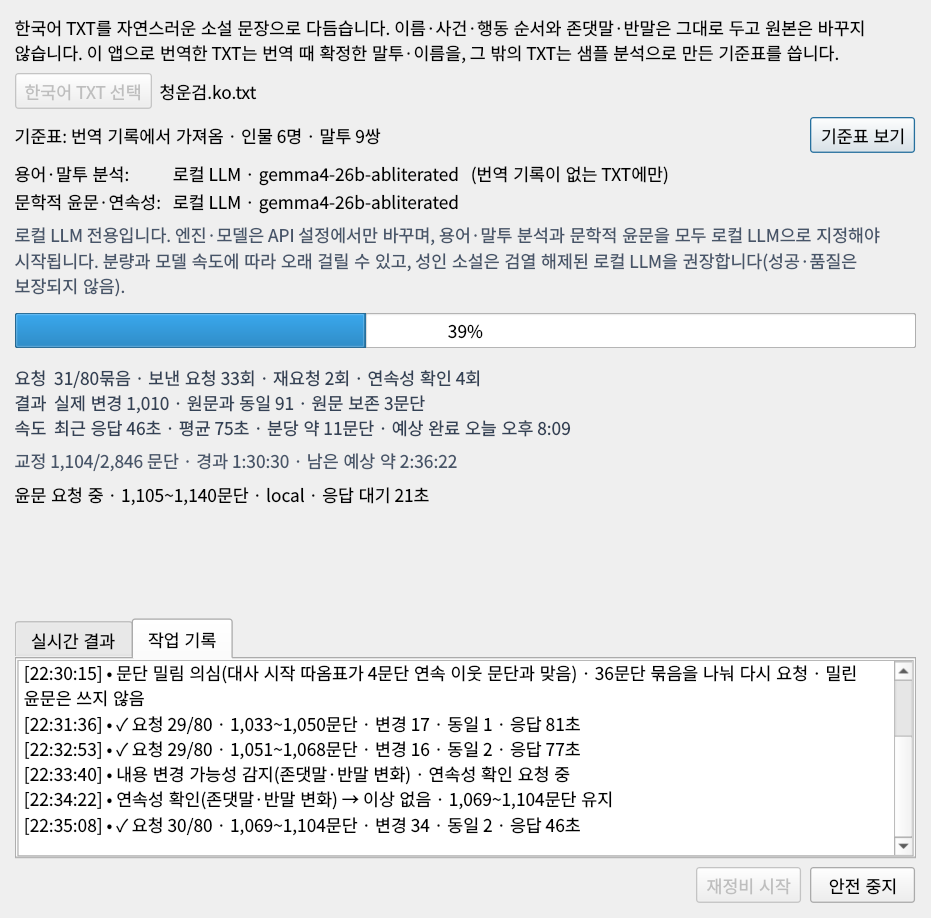
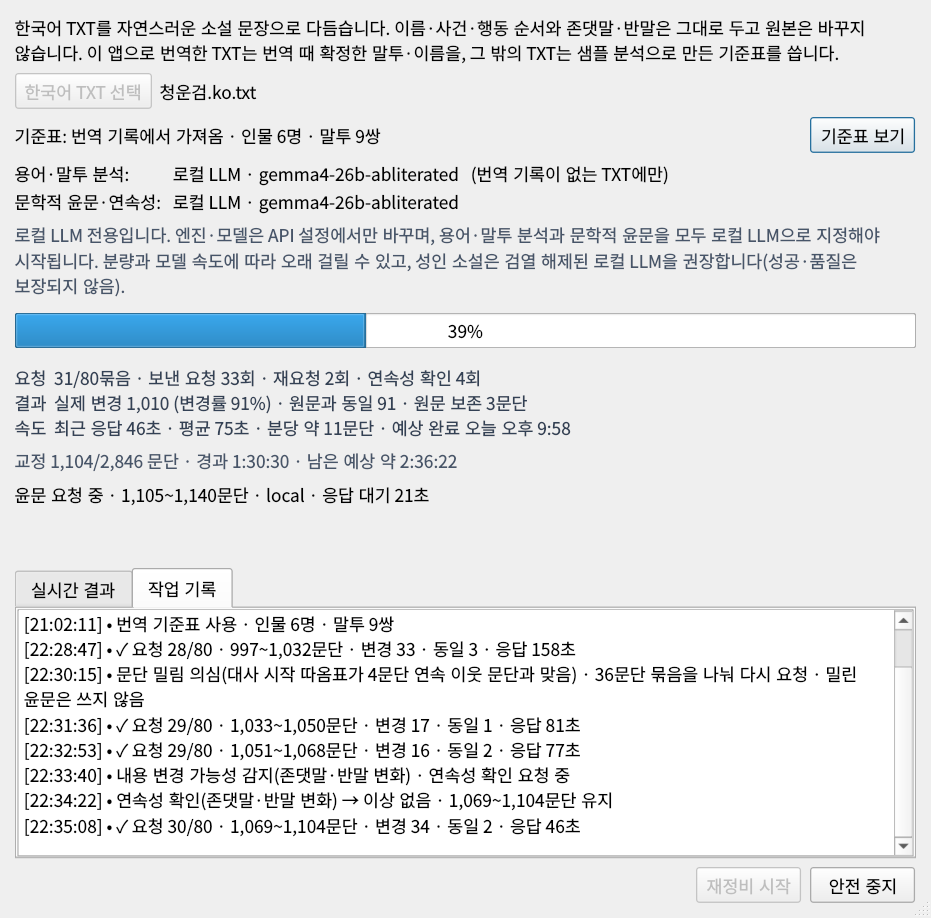
v2.6.2 보완 — 재정비 변경 수를 결과 기준으로 · 마침표·쉼표만 바꾼 다듬기는 원문 유지 · (변경 없음) 한 줄 · 변경률 · 창 빈 자리 축소 · 크기 조절 표시
Claude-Session: https://claude.ai/code/session_01Jd1F2aNuEFXjL3F7FpUsYa

Changed region(s): [[0.0, 0.61, 0.9968, 0.915], [0.1869, 0.427, 0.5607, 0.4575], [0.5918, 0.4575, 0.623, 0.488]]

diff --git a/app/docs/사용설명서.html b/app/docs/사용설명서.html
@@ -168,7 +168,8 @@
   <li><b>진행 정보 보강</b> — 진행바 아래에 세 줄이 늘었습니다: <b>요청</b>(몇 번째 묶음 · 보낸 요청 · 재요청 · 연속성 확인 횟수), <b>결과</b>(실제 변경 · 원문과 동일 · 원문 보존 문단), <b>속도</b>(최근 · 평균 응답 시간 · 분당 문단 수 · <b>예상 완료 시각</b>).</li>
   <li><b>[실시간 결과] · [작업 기록] 탭</b> — <b>실시간 결과</b>에는 다듬은 문장이 묶음마다 바로 쌓이고, <b>다듬기 전 문장도 함께 보기</b>를 켜면 문단마다 전 · 후를 비교할 수 있습니다. <b>작업 기록</b>에는 묶음마다 결과(변경 · 동일 · 응답 시간)와 재요청 · 문단 밀림 · 연속성 확인 · 원문 보존이 시간과 함께 남습니다. 두 탭 모두 번역 화면의 작업 기록처럼 <b>최근 500개</b>만 보여 며칠을 돌려도 느려지지 않습니다.</li>
   <li><b>전체 작업 기록 파일</b> — 화면에서 밀려난 기록도 결과 파일 옆 <code>….refined.txt.log.txt</code>에 모두 남습니다(30MB 소설도 약 1MB). 이어서 하면 같은 파일에 이어 쓰고, 처음부터 새로 하면 이전 기록은 <code>.log.이전.txt</code>로 하나 남깁니다.</li>
-  <li><b>재정비 창 크기 조절 · 위치 기억</b> — 창을 원하는 크기로 키울 수 있고, 번역 화면처럼 다음에 열 때 위치와 크기를 기억합니다. 진행 중에는 지금처럼 창 크기가 저절로 바뀌지 않습니다.</li>
+  <li><b>재정비 창 크기 조절 · 위치 기억</b> — 창을 원하는 크기로 키울 수 있고(오른쪽 아래 모서리의 크기 조절 표시), 번역 화면처럼 다음에 열 때 위치와 크기를 기억합니다. 진행 중에는 지금처럼 창 크기가 저절로 바뀌지 않습니다.</li>
+  <li><b>정확한 변경 수 (같은 버전 보완)</b> — 따옴표 모양 · 문단 끝 빈칸만 다른 문단은 "변경"으로 세지 않고, 비교 보기에서 <code>[번호] (변경 없음) …</code> 한 줄로 보여 줍니다. <b>마침표 · 쉼표만 바꾼 다듬기</b>("후후후." → "후후후,")는 나아진 것이 아니므로 원문을 그대로 씁니다(물음표 · 느낌표를 더한 것은 변경으로 인정). 결과 줄에 <b>변경률</b>이 나오고, 150문단 넘게 다듬었는데 변경률이 50% 미만이면 작업 기록에 경고가 남습니다. 완료 요약의 수는 결과 줄에 한 번만 나와 창의 빈 자리가 줄었습니다.</li>
 </ul></div>
 <div class="box info"><b>v2.6.1에서 달라진 점 — 기능 사이 흐름 점검으로 찾은 보완</b>
 <p>번역 · 재정비 · 출력 폴더가 <b>서로 만나는 지점</b>을 처음부터 끝까지 따라가며 점검해, 따로 쓸 때는 문제가 없지만 함께 쓸 때 결과를 잃거나 작업이 엉킬 수 있는 곳을 찾아 고쳤습니다. 새 기능이나 새 버튼은 없고, 번역 · 재정비 지침과 속도 · 품질은 그대로입니다. 결과 파일을 다루는 방식(덮어쓰기 보호)과 재정비 이어서 하기의 기준이 바뀌는 보완이라 같은 버전 재배포 대신 v2.6.1로 올렸습니다.</p>

diff --git a/app/tests/test_v262_refinement_counts.py b/app/tests/test_v262_refinement_counts.py
@@ -1,0 +1,157 @@
+"""v2.6.2 보완 (same-version redeploy): honest counts and a quieter comparison.
+
+- A paragraph is "changed" only when the result file differs: quotation-mark shape,
+  Chinese/Japanese punctuation and the spaces at either end no longer count as an edit,
+  and the spaces at the end of a line stay as in the original.
+- The live comparison shows an unchanged paragraph on one line, "(변경 없음)".
+- The run log warns once when the model leaves most paragraphs as they were.
+- The finished window says the counts once (결과 line), keeps its size, shows the resize mark.
+- The editing instruction is the v2.6.2 one, unchanged (a stronger one tried on 2026-11-04
+  edited more but also dropped dialogue and changed meaning, so it was not kept).
+"""
+from __future__ import annotations
+
+import re
+
+import pytest
+
+from novel_translator.chunking import split_paragraphs
+from novel_translator.refinement_runtime import (run_refinement, refinement_prompt, same_result,
+                                                   finalize_body)
+from novel_translator.providers.base import TranslationResponse, ProviderError, ErrorKind
+from test_refinement_reference_and_safety import Editor, write, REVIEW
+from test_alpha17 import qt_app, sandbox  # noqa: F401 (fixtures)
+
+LONG = '그는 그녀의 그 말에 대해 아무런 대답도 하지 않은 채 창밖을 바라보는 것이었다.'
+
+
+# ---------------------------------------------------------------- what counts as a change
+@pytest.mark.parametrize('orig,body,same', [
+    ('"히익!" 부인의 입에서 날카로운 비명이 터져 나왔다.', '“히익!” 부인의 입에서 날카로운 비명이 터져 나왔다.', True),
+    ('"히익!" 부인의 입에서 비명이 터져 나왔다.', '"히익!" 부인의 입에서 비명이 터져 나왔다. ', True),
+    ('그는 웃었다. ', '그는 웃었다.', True),
+    ('　그는 웃었다.', '그는 웃었다.', True),
+    ('"왜?" 그가 물었다.', '“왜？” 그가 물었다。', True),
+    ('"서너 번은은 하게 만들 테니까."', '"서너 번은 하게 만들 테니까."', False),
+    ('그는 웃었다.', '그는 빙긋 웃었다.', False),
+    ('"어디 가." 그녀가 물었다.', '"어디 가?" 그녀가 물었다.', False),
+])
+def test_same_result(orig, body, same):
+    assert same_result(orig, body) is same
+
+
+def test_end_of_line_spaces_follow_the_original():
+    assert finalize_body('그는 웃었다.  ', '그는 웃었다.', True, 'straight') == '그는 웃었다.  '
+    assert finalize_body('그는 웃었다.', '그는 웃었다.   ', True, 'straight') == '그는 웃었다.'
+    assert finalize_body('　그는 웃었다.', '  그는 웃었다. ', None, 'straight') == '　그는 웃었다.'
+
+
+def test_quote_only_edits_are_not_counted_as_changes(tmp_path):
+    book = '\n'.join(f'"짧은 대사 {i}."' for i in range(10))
+    src = write(tmp_path, 'q.ko.txt', book)
+    curl = lambda pid, t: re.sub(r'"([^"]*)"', r'“\1”', t)
+    stats, lines = [], []
+    out = tmp_path / 'q.r.txt'
+    r = run_refinement(src, out, Editor(curl), 'm', '', checkpoint_dir=tmp_path / 'cp', links_root=tmp_path / 'l',
+                       punct=True, on_stats=stats.append, on_log=lines.append, log_path=tmp_path / 'q.log.txt')
+    assert r['changed'] == 0 and r['identical'] == 10
+    assert stats[-1]['changed'] == 0 and stats[-1]['identical'] == 10
+    assert any('변경 0 · 동일 10' in l for l in lines)
+    assert '실제 변경 0문단 · 원문과 동일 10문단' in (tmp_path / 'q.r.txt.review.txt').read_text(encoding='utf-8-sig')
+
+
+# ---------------------------------------------------------------- the instruction
+# ---------------------------------------------------------------- 집중 윤문
+class Lazy(Editor):
+    """Copies every paragraph back on the first ask; edits on the 집중 윤문 ask."""
+    def __init__(self, second=lambda pid, t: t.replace('바라보는 것이었다', '바라보았다').replace('그녀의 그 말에 대해', '그 말에')):
+        super().__init__(lambda pid, t: t)
+        self.second = second; self.prompts = []
+    def translate(self, req, key):
+        if req.purpose == 'edit':
+            self.prompts.append(req.user_prompt)
+        if req.purpose == 'edit' and '그대로 돌아왔습니다' in req.user_prompt:
+            self.calls.append('focus')
+            hits = re.findall(r'(?m)^<P(\d{6})>\n([^\n]*)', req.user_prompt.split('교정 대상:')[1])
+            return TranslationResponse('\n\n'.join(f'<P{pid}>\n{self.second(int(pid), t)}' for pid, t in hits))
+        return super().translate(req, key)
+
+
+# ---------------------------------------------------------------- low change rate
+def test_low_change_rate_is_warned_once(tmp_path):
+    lines_in = [f'{i}번째 문단에서 그는 아무 말도 하지 않고 창밖을 바라보았다.' for i in range(200)]
+    src = write(tmp_path, 'w.ko.txt', '\n'.join(lines_in))
+    ed = Lazy(second=lambda pid, t: t)                       # copies everything, even on 집중 윤문
+    lines = []
+    run_refinement(src, tmp_path / 'w.r.txt', ed, 'm', '', checkpoint_dir=tmp_path / 'cp', links_root=tmp_path / 'l',
+                   on_log=lines.append, log_path=tmp_path / 'w.log.txt')
+    warns = [l for l in lines if l.startswith('⚠ 변경률 낮음')]
+    assert len(warns) == 1 and '0%만 문장이 바뀜' in warns[0]
+    assert '⚠ 변경률 낮음' in (tmp_path / 'w.log.txt').read_text(encoding='utf-8-sig')
+    lines2 = []
+    run_refinement(src, tmp_path / 'w2.r.txt', Editor(lambda pid, t: t.replace('바라보았다', '내다보았다')), 'm', '',
+                   checkpoint_dir=tmp_path / 'cp2', links_root=tmp_path / 'l2', on_log=lines2.append)
+    assert not any(l.startswith('⚠') for l in lines2)
+
+
+# ---------------------------------------------------------------- window
+def test_unchanged_paragraph_is_one_line_in_the_comparison(qt_app, sandbox, monkeypatch):
+    import novel_translator.ui.refinement_run_dialog as rd
+    from test_v262_refinement_output import _host
+    root, cfg = sandbox
+    monkeypatch.setattr(rd, 'CONFIG_DIR', cfg)
+    d = rd.RefinementRunDialog(_host(root))
+    d.compare.setChecked(True)
+    d._edited([(489, '"히익!" 부인의 입에서 날카로운 비명이 터져 나왔다.', '"히익!" 부인의 입에서 날카로운 비명이 터져 나왔다. '),
+               (576, '"적어도 서너 번은은 하게 만들 테니까."라며 웃었다.', '"적어도 서너 번은 하게 만들 테니까."라며 웃었다.')])
+    text = d.live.toPlainText()
+    assert '[489] (변경 없음) "히익!" 부인의 입에서 날카로운 비명이 터져 나왔다.' in text and '[489] 전:' not in text
+    assert '[576] 전: "적어도 서너 번은은' in text and '[576] 후: "적어도 서너 번은 하게' in text
+    d._counts = (10, 100, 0)
+    d._stats_changed({'groups': 3, 'group': 1, 'requests': 2, 'changed': 7, 'identical': 3})
+    assert '실제 변경 7 (변경률 70%)' in d.stats_info.text()
+
+
+def test_finished_window_says_the_counts_once_and_shows_the_resize_mark(qt_app, sandbox, monkeypatch):
+    import novel_translator.ui.refinement_run_dialog as rd
+    from test_v262_refinement_output import _host
+    root, cfg = sandbox
+    monkeypatch.setattr(rd, 'CONFIG_DIR', cfg)
+    d = rd.RefinementRunDialog(_host(root)); d.show(); qt_app.processEvents()
+    assert d.isSizeGripEnabled() and rd.STATUS_LINES == 3
+    size = d.size()
+    d._stats_changed({'groups': 10, 'group': 10, 'requests': 12, 'changed': 1, 'identical': 1})
+    d._finished({'status': 'completed', 'done': 790, 'total': 800, 'changed': 700, 'identical': 90, 'preserved': 10,
+                 'seconds': 3723, 'output': str(root / '책.ko.refined.txt'), 'report': str(root / '책.ko.refined.txt.review.txt'),
+                 'guidance_source': 'translation', 'guidance': '표', 'residue_before': 3, 'residue_after': 1})
+    qt_app.processEvents()
+    assert '실제 변경' not in d.status.text() and '총 소요 시간' in d.status.text() and '보존한 문단은' in d.status.text()
+    assert '실제 변경 700 (변경률 88%) · 원문과 동일 90 · 원문 보존 10문단' in d.stats_info.text()
+    assert d.size() == size
+    d.close()
+
+
+@pytest.mark.parametrize('orig,body,only', [
+    ('"후후후. 얼마나 놀랐을까."', '"후후후, 얼마나 놀랐을까."', True),
+    ('그는 웃었다, 그리고 갔다.', '그는 웃었다. 그리고 갔다.', True),
+    ('"어디 가." 그녀가 물었다.', '"어디 가?" 그녀가 물었다.', False),       # an added question mark is kept
+    ('"후후후. 얼마나 놀랐을까."', '"후후후, 얼마나 놀랐을지."', False),
+    ('그는 웃었다.', '그는 웃었다.', False),
+])
+def test_only_period_comma(orig, body, only):
+    from novel_translator.refinement_runtime import only_period_comma
+    assert only_period_comma(orig, body) is only
+
+
+def test_period_comma_only_edit_keeps_the_original(tmp_path):
+    book = '"후후후. 얼마나 놀랐을까. 하지만 여기서 서두르면 안 돼."\n"어디 가." 그녀가 물었다.'
+    src = write(tmp_path, 'pc.ko.txt', book)
+    def edit(pid, t):
+        return t.replace('후후후.', '후후후,') if pid == 1 else t.replace('어디 가.', '어디 가?')
+    seen = []
+    r = run_refinement(src, tmp_path / 'pc.r.txt', Editor(edit), 'm', '', checkpoint_dir=tmp_path / 'cp',
+                       links_root=tmp_path / 'l', punct=True, on_edited=seen.extend)
+    out = (tmp_path / 'pc.r.txt').read_text(encoding='utf-8-sig').split('\n')
+    assert out[0] == '"후후후. 얼마나 놀랐을까. 하지만 여기서 서두르면 안 돼."' and out[1] == '"어디 가?" 그녀가 물었다.'
+    assert r['changed'] == 1 and r['identical'] == 1
+    assert seen[0][2] == seen[0][1]                                      # the live view shows it unchanged

diff --git a/app/novel_translator/refinement_runtime.py b/app/novel_translator/refinement_runtime.py
@@ -326,6 +326,11 @@ def format_duration(seconds: float) -> str:
 MAX_REFINEMENT_BYTES = 30_000_000  # 30 MB decimal
 MAX_REFINEMENT_LABEL = f'{MAX_REFINEMENT_BYTES // 1_000_000}MB'
 
+# The run log warns once when, after this many paragraphs edited in this run, fewer than this
+# share of them changed (the model copies most paragraphs back).
+LOW_RATE_AFTER = 150
+LOW_RATE = 0.5
+
 
 def _save_state(path: Path, data: dict) -> None:
     """The resume file, written as save_json does (temporary file, flush, replace), but encoded
@@ -791,6 +796,7 @@ def _residue_paragraphs(paragraphs, texts=None) -> int:
 
 
 _LEAD_SPACE = re.compile(r'^[ \t\u3000]*')
+_TRAIL_SPACE = re.compile(r'[ \t\u3000]*$')
 
 
 def finalize_body(original: str, body: str, punct: bool = False, quote_style: str = 'straight') -> str:
@@ -803,10 +809,32 @@ def finalize_body(original: str, body: str, punct: bool = False, quote_style: st
       translation result (설정 [따옴표]), so a refined book never comes back in the
       model's own quote marks."""
     indent = _LEAD_SPACE.match(original or '').group(0)
-    text = indent + _LEAD_SPACE.sub('', body or '', count=1)
+    tail = _TRAIL_SPACE.search(original or '').group(0)      # the end of a line too (v2.6.2 보완)
+    core = _TRAIL_SPACE.sub('', _LEAD_SPACE.sub('', body or '', count=1), count=1)
+    text = indent + core + tail
     if punct:
         text = korean_punctuation(text, quote_style)
     return text
+
+
+def same_result(original: str, body: str) -> bool:
+    """The edit says the same as the original once the result file's own tidying is done
+    (v2.6.2 보완): quotation-mark shape, Chinese/Japanese punctuation and the spaces at either end
+    do not make a paragraph "changed" (they were counted so up to v2.6.2)."""
+    return (finalize_body(original, body, True, 'straight').strip()
+            == finalize_body(original, original, True, 'straight').strip())
+
+
+_PERIOD_COMMA_SPACE = re.compile(r'[.,\s\u3000]')
+
+
+def only_period_comma(original: str, body: str) -> bool:
+    """The edit differs from the original only in full stops, commas and spaces (v2.6.2 보완):
+    "후후후." → "후후후," is no improvement, so the original is kept. A question or
+    exclamation mark the edit added, or any changed word, is a real edit."""
+    a = finalize_body(original, body, True, 'straight')
+    b = finalize_body(original, original, True, 'straight')
+    return a != b and _PERIOD_COMMA_SPACE.sub('', a) == _PERIOD_COMMA_SPACE.sub('', b)
 
 
 def assemble(paragraphs, completed, punct=None, quote_style='straight'):
@@ -929,7 +957,9 @@ def run_refinement(source: Path, output: Path, provider, model: str, key: str,
 
     stats = {'groups': len(groups), 'group': 0, 'paragraphs': len(paragraphs), 'requests': 0,
              'retries': 0, 'reviews': 0, 'reply_last': 0.0, 'reply_total': 0.0, 'replies': 0,
-             'changed': 0, 'identical': 0}
+             'changed': 0, 'identical': 0,
+             'run_changed': 0, 'run_identical': 0}
+    low_rate_warned = [False]
 
     def publish():
         if on_stats is not None:
@@ -946,9 +976,9 @@ def run_refinement(source: Path, output: Path, provider, model: str, key: str,
         _save_state(cp, state)
     valid_ids = {str(p.pid) for p in paragraphs}
     state['completed']={k:v for k,v in state['completed'].items() if k in valid_ids}
-    by_text = {str(p.pid): p.text.strip() for p in paragraphs}
+    by_text = {str(p.pid): p.text for p in paragraphs}
     for k, v in state['completed'].items():          # paragraphs kept from an earlier run
-        stats['identical' if v.strip() == by_text.get(k, '') else 'changed'] += 1
+        stats['identical' if same_result(by_text.get(k, ''), v) else 'changed'] += 1
     try:
         size_mb = source.stat().st_size / 1e6
     except OSError:
@@ -1152,11 +1182,18 @@ def run_refinement(source: Path, output: Path, provider, model: str, key: str,
             if reason:
                 log(f'연속성 확인({reason}) → 이상 없음 · {parts[0].pid}~{parts[-1].pid}문단 유지')
             changed_now = 0
+            bodies = [p.text if only_period_comma(p.text, body) else body for p, body in zip(parts, bodies)]
             for p, body in zip(parts, bodies):
                 state['completed'][str(p.pid)] = body
                 state['issues'].pop(str(p.pid), None)
-                changed_now += body.strip() != p.text.strip()
+                changed_now += not same_result(p.text, body)
             stats['changed'] += changed_now; stats['identical'] += len(parts) - changed_now
+            stats['run_changed'] += changed_now; stats['run_identical'] += len(parts) - changed_now
+            seen = stats['run_changed'] + stats['run_identical']
+            if not low_rate_warned[0] and seen >= LOW_RATE_AFTER and stats['run_changed'] < seen * LOW_RATE:
+                low_rate_warned[0] = True
+                log(f'⚠ 변경률 낮음 · 이번 실행에서 다듬은 {seen:,}문단 중 {stats["run_changed"] * 100 // seen}%만 문장이 바뀜 · '
+                    '모델이 대부분 그대로 두고 있습니다. [실시간 결과]에서 전·후를 확인하고, 계속 낮으면 [안전 중지] 후 다른 모델을 써 보세요')
             log(f'✓ 요청 {stats["group"]:,}/{stats["groups"]:,} · {parts[0].pid:,}~{parts[-1].pid:,}문단'
                                      f' · 변경 {changed_now} · 동일 {len(parts) - changed_now}'
                                      f' · 응답 {stats["reply_last"]:.0f}초')
@@ -1190,7 +1227,7 @@ def run_refinement(source: Path, output: Path, provider, model: str, key: str,
         except Exception:
             pass
     report=output.with_name(output.name+'.review.txt')
-    changed=sum(1 for p in paragraphs if str(p.pid) in state['completed'] and state['completed'][str(p.pid)].strip()!=p.text.strip())
+    changed=sum(1 for p in paragraphs if str(p.pid) in state['completed'] and not same_result(p.text, state['completed'][str(p.pid)]))
     identical=len(state['completed'])-changed
     preserved=len(paragraphs)-len(state['completed'])
     residue_after=_residue_paragraphs(paragraphs, state['completed'])

diff --git a/app/novel_translator/ui/refinement_run_dialog.py b/app/novel_translator/ui/refinement_run_dialog.py
@@ -10,7 +10,7 @@ from PySide6.QtWidgets import (QDialog, QVBoxLayout, QHBoxLayout, QGridLayout, Q
                                QSizePolicy, QCheckBox, QApplication, QTabWidget)
 from ..refinement_runtime import (run_refinement, MAX_REFINEMENT_BYTES, MAX_REFINEMENT_LABEL, format_duration,
                                   retry_status, peek_guidance, resume_conflict, estimate_run,
-                                  run_log_path, append_run_log)
+                                  run_log_path, append_run_log, same_result)
 from ..api_keys import normalize_key_records
 from .main_window import _make_provider
 from ..textio import read_txt_sample, decode_txt_bytes
@@ -112,10 +112,10 @@ def short_name(name, keep: int = 44) -> str:
     return name[:head]+'…'+name[-(keep-head-1):]
 
 
-# Lines kept free for the status text: a finished run's summary is at most four lines (five on a
-# large system font), so
+# Lines kept free for the status text: a finished run's summary is at most three lines (v2.6.2 보완:
+# its counts are on the 결과 line above, no longer repeated here), so
 # the window keeps one size from opening to finishing (only a rare long error grows it).
-STATUS_LINES = 5
+STATUS_LINES = 3
 
 
 class _StatusLabel(QLabel):
@@ -179,6 +179,7 @@ class RefinementRunDialog(QDialog):
         self.host=host
         self.setWindowTitle('한국어 소설 재정비 · 문학적 윤문')
         self.resize(700,690)
+        self.setSizeGripEnabled(True)    # the corner mark that shows the window can be resized (v2.6.2 보완)
         self.worker=None
         self._stage_text='대기 중'
         self._stage_started=0.0
@@ -598,6 +599,9 @@ class RefinementRunDialog(QDialog):
     def _live_text(self, row) -> str:
         pid,before,after=row
         if self.compare.isChecked():
+            if same_result(before, after):
+                # v2.6.2 보완: nothing to compare (only quotes or spaces may differ): one line
+                return f'[{pid:,}] (변경 없음) {after.strip()}\n'
             return f'[{pid:,}] 전: {before.strip()}\n[{pid:,}] 후: {after.strip()}\n'
         return after.rstrip()
 
@@ -673,7 +677,9 @@ class RefinementRunDialog(QDialog):
         groups=int(st.get('groups') or 0)
         line1=f'요청  {int(st.get("group") or 0):,}/{groups:,}묶음 · 보낸 요청 {int(st.get("requests") or 0):,}회'
         line1+=f' · 재요청 {int(st.get("retries") or 0):,}회 · 연속성 확인 {int(st.get("reviews") or 0):,}회'
-        line2=(f'결과  실제 변경 {int(st.get("changed") or 0):,} · 원문과 동일 {int(st.get("identical") or 0):,}'
+        changed=int(st.get("changed") or 0); same=int(st.get("identical") or 0)
+        rate=f' (변경률 {changed*100//(changed+same)}%)' if changed+same else ''
+        line2=(f'결과  실제 변경 {changed:,}{rate} · 원문과 동일 {same:,}'
                f' · 원문 보존 {int(issues or 0):,}문단')
         replies=int(st.get('replies') or 0)
         if replies:
@@ -714,8 +720,11 @@ class RefinementRunDialog(QDialog):
                      if result.get('residue_before') else '')
             retry=('\n보존한 문단은 같은 TXT로 [재정비 시작]을 다시 누르면 그 문단만 다시 시도합니다.' if preserved else '')
             out=Path(str(result["output"])); rep=Path(str(result["report"]))
+            # The finished counts go on the 결과 line above (v2.6.2 보완), so they are said once.
+            self._stats=dict(self._stats or {}); self._stats['changed']=int(changed or 0); self._stats['identical']=int(identical or 0)
+            self._counts=(int(result.get('done') or 0), int(result.get('total') or 0), int(preserved or 0))
+            self.stats_info.setText(self._stats_text()); self.stats_info.show()
             self.status.setText(f'총 소요 시간 {format_duration(result.get("seconds",0))} · 기준표 {where}{residue}\n'
-                                f'실제 변경 {changed}문단 · 원문과 동일 {identical}문단 · 미교정 원문 보존 {preserved}문단\n'
                                 f'결과: {short_name(out.name)} · 검토 기록(.review.txt)도 같은 폴더{retry}')
             self.status.setToolTip(f'결과: {out}\n검토 기록: {rep}')
             self._guidance_text=str(result.get('guidance') or '')

diff --git a/app/tests/test_v262_refinement_output.py b/app/tests/test_v262_refinement_output.py
@@ -440,7 +440,7 @@ def test_counts_and_log_in_the_window(qt_app, cfg_dir):
                       'reply_last': 41.2, 'reply_total': 170.0, 'replies': 5, 'changed': 100, 'identical': 17})
     text = d.stats_info.text()
     assert '요청  4/12묶음 · 보낸 요청 5회 · 재요청 1회 · 연속성 확인 2회' in text
-    assert '결과  실제 변경 100 · 원문과 동일 17 · 원문 보존 3문단' in text
+    assert '결과  실제 변경 100 (변경률 85%) · 원문과 동일 17 · 원문 보존 3문단' in text
     assert '최근 응답 41초 · 평균 34초' in text
     for i in range(rd.LOG_ROWS + 20):
         d._log_line(f'줄 {i}')

diff --git a/.github/release-notes/v2.6.2.md b/.github/release-notes/v2.6.2.md
@@ -39,6 +39,13 @@
 - 두 탭 모두 번역 화면의 작업 기록처럼 **최근 500개**만 보여, 며칠을 돌려도 느려지지 않습니다. 전체 기록은 결과 옆 `.log.txt`에 모두 남습니다(30MB 소설도 약 1MB).
 - **창 크기 조절 · 위치 기억** — 재정비 창을 원하는 크기로 키울 수 있고, 다음에 열 때 위치와 크기를 기억합니다.
 
+### 같은 버전 보완 (2026-11-04)
+- **정확한 변경 수** — 따옴표 모양 · 문단 끝 빈칸만 다른 문단을 "변경"으로 세던 것을 바로잡고, 결과 줄에 **변경률**을 함께 보여 줍니다. 비교 보기에서 원문과 같은 문단은 `[번호] (변경 없음) …` 한 줄로 나옵니다.
+- **마침표 · 쉼표만 바꾼 다듬기는 원문 유지** — "후후후." → "후후후,"처럼 나아지지 않은 변경은 버립니다. 물음표 · 느낌표를 더한 것은 그대로 살립니다.
+- **변경률 경고** — 모델이 대부분 그대로 두면 작업 기록에 한 번 알려 줍니다.
+- **재정비 창** — 빈 자리를 줄이고, 오른쪽 아래에 크기 조절 표시를 넣었습니다.
+- 윤문 지시문은 그대로입니다. 더 많이 고치게 하는 지시문을 시험했지만 대사 삭제 · 뜻 바뀜이 늘어 넣지 않았습니다.
+
 ## 주요 기능 한눈에
 - 중국어 · 일본어 · 영어 → 한국어, **TXT · PDF · EPUB** 열기와 붙여넣기, 원문 언어 · 인코딩 자동 인식
 - **로컬 LLM · Gemini · OpenAI** 중 1~3개를 순서대로 — 막힌 문단만 다음 엔진이 이어받음
@@ -51,4 +58,4 @@
 
 ## 바뀌지 않은 것
 번역(엔진 · 지침 · 묶음 크기 · 밀림 감지), 용어 · 말투 검출, 재정비 지침 · 묶음 크기 · 검사 · 한 줄 밀림 감지는 v2.6.1과 같습니다.
-테스트 47개를 더해 전체 1,350개를 통과했습니다. 자세한 내용은 프로그램 폴더의 `사용설명서.html`("v2.6.2에서 달라진 점"), 전체 변경 내역은 `README.txt`를 보세요.
+테스트 66개를 더해 전체 1,369개를 통과했습니다. 자세한 내용은 프로그램 폴더의 `사용설명서.html`("v2.6.2에서 달라진 점"), 전체 변경 내역은 `README.txt`를 보세요.
